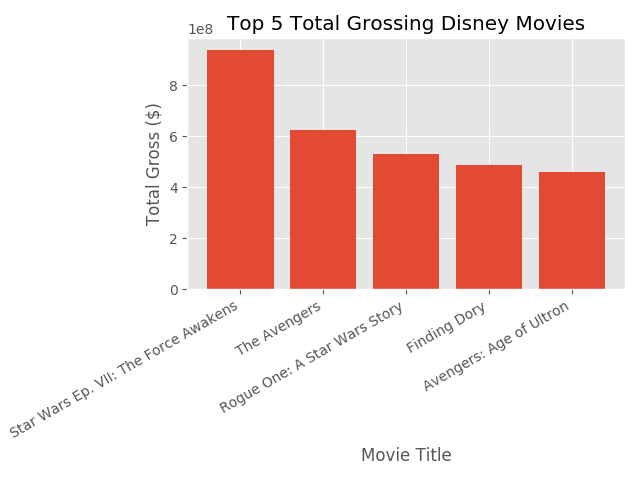
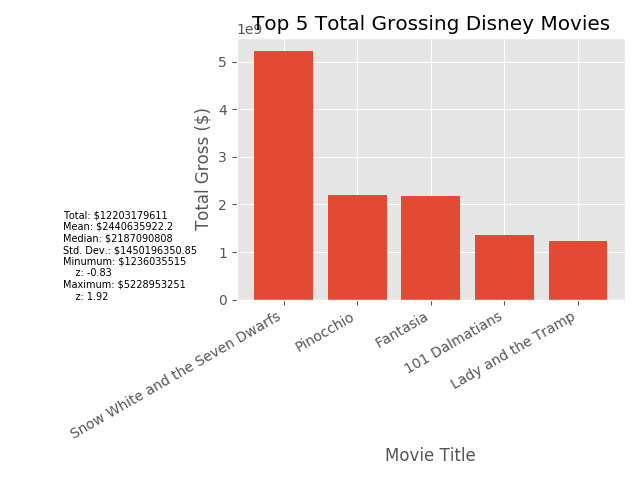
stats

diff --git a/disney_movies_gross.py b/disney_movies_gross.py
@@ -4,6 +4,7 @@ labels: 'movie_title', 'release_date', 'genre', 'MPAA_rating', 'total_gross',
 """
 
 import os
+from statistics import median, pstdev
 import matplotlib.pyplot as plt
 import pandas as pd
 
@@ -36,8 +37,11 @@ class Disney_Movies_Gross:
     def plot_top5(self):
         """Save a plot of the top 5 total grossed titles"""
 
-        df = self.df.sort_values('total_gross', ascending=False)
-        plt.bar(df[:5]['movie_title'], df[:5]['total_gross'])
+        df = self.df.sort_values('inflation_adjusted_gross', ascending=False)
+        plt.bar(df[:5]['movie_title'], df[:5]['inflation_adjusted_gross'])
+
+        # stats
+        self.stats('bar', list(df[:5]['inflation_adjusted_gross']))
 
         plt.xticks(rotation=30, ha='right')
         plt.title('Top 5 Total Grossing Disney Movies')
@@ -105,6 +109,10 @@ class Disney_Movies_Gross:
         p.gca().add_artist(circle)
 
         wedges, labels = self.sort_labels(wedges, labels, values)
+        
+        # statistic information
+        self.stats('pie', values)
+
         plt.legend(wedges, labels, loc='center', frameon=False, fontsize=7)
 
         plt.title(title)
@@ -127,16 +135,35 @@ class Disney_Movies_Gross:
         return (classes, labels)
     
     @staticmethod
-    def stats():
-        pass
+    def stats(plt_type, values):
+        """Plotting statistical information on plots: mean, median, std. dev.,
+        min, max, total"""
+
+        fontsize = 7
+        total = sum(values)
+        text = (
+            f'Total: ${total}\n'
+            f'Mean: ${total / len(values)}\n'
+            f'Median: ${median(values)}\n'
+            f'Std. Dev.: ${round(pstdev(values), 2)}\n'
+            f'Minumum: ${min(values)}   '
+            f'\n    z: {round((min(values)-total / len(values)) / pstdev(values), 2)}\n'
+            f'Maximum: ${max(values)}   '
+            f'\n    z: {round((max(values)-total / len(values)) / pstdev(values), 2)}'
+        )
+
+        if plt_type is 'pie':
+            plt.text(0.8, 0.6, text, fontsize=fontsize)
+        elif plt_type is 'bar':
+            plt.text(-3.0, -0.5, text, fontsize=fontsize)
 
 
 if __name__ == '__main__':
     disney = Disney_Movies_Gross()
     disney.gross_to_int()
+
     disney.plot_top5()
     plt.clf() # clear top5 plot for best_genre plot
     disney.best_genre()
+    plt.clf()
     disney.best_MPAA_rating()
-
-    # print(disney.df['MPAA_rating'].unique())
